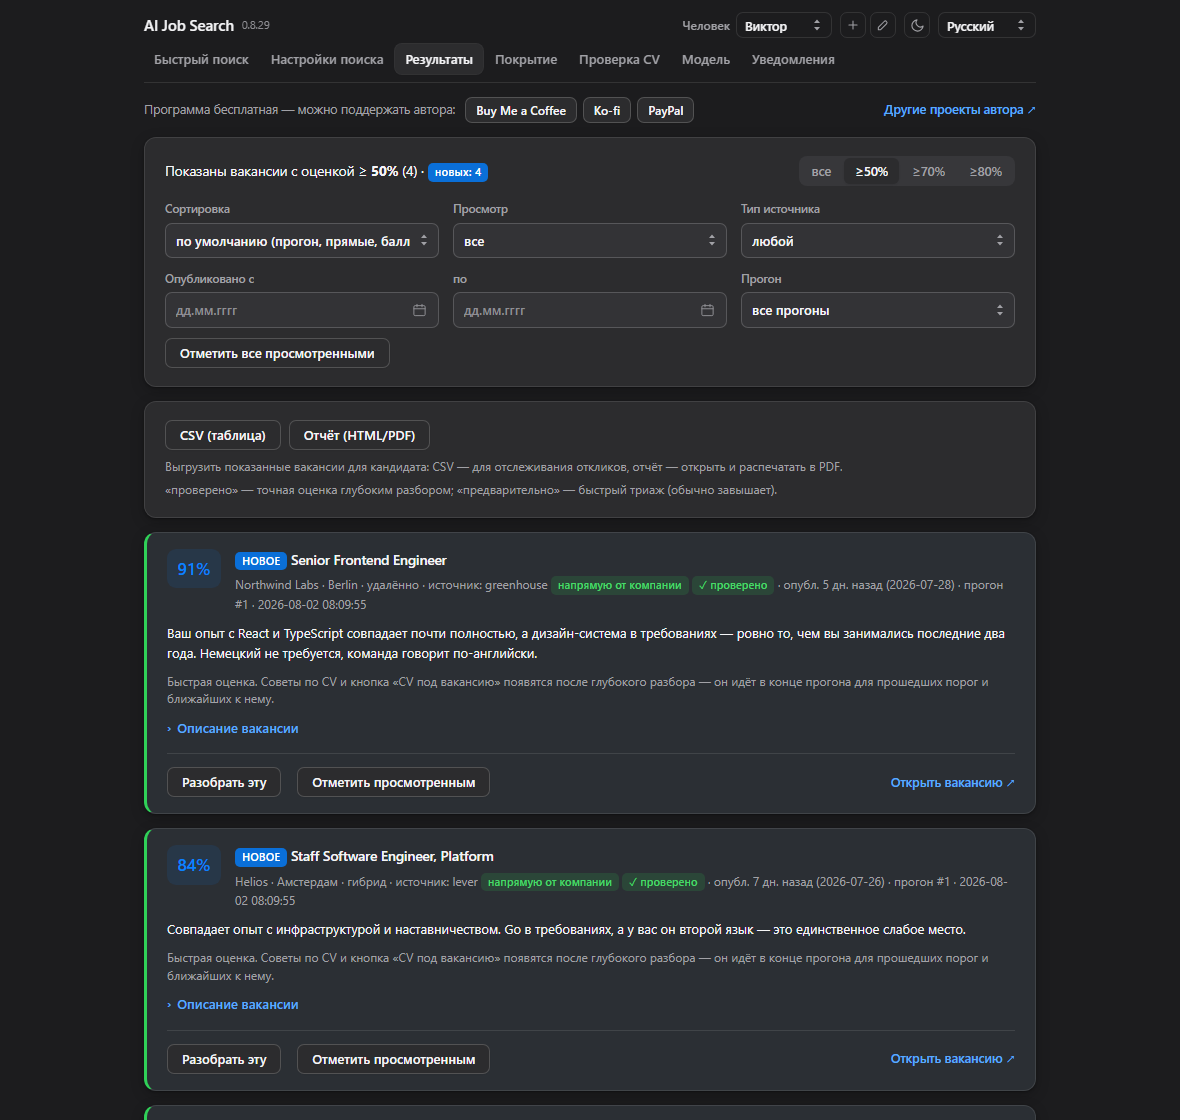
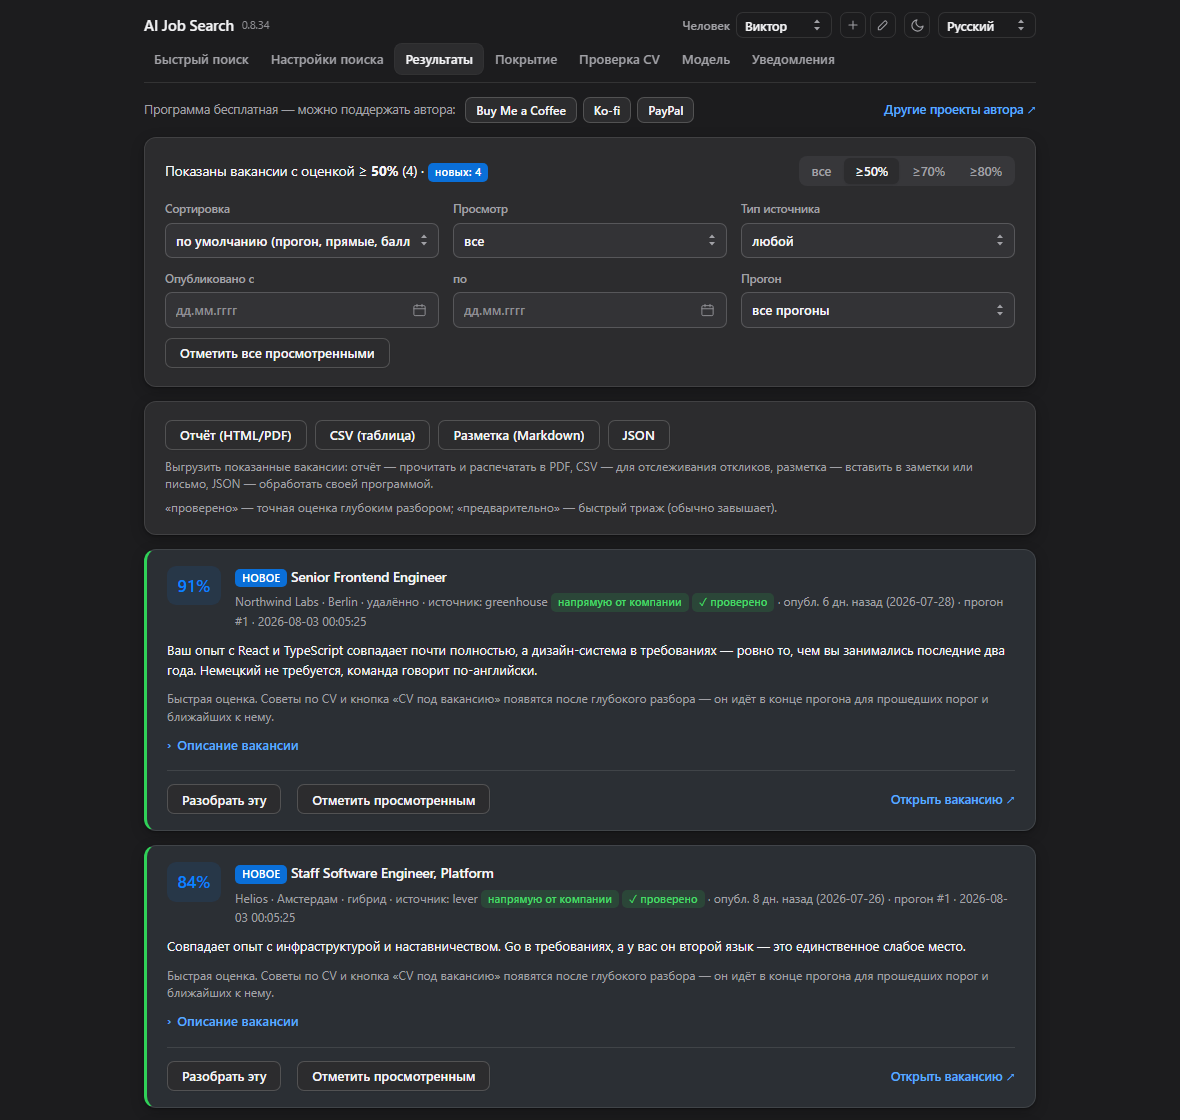
Снимки заново, и второй набор — тоже этим скриптом
Скрипт снимал только половину: русский набор в docs/img для README и страницы в
этом репозитории. Английская страница продукта на mrwd.github.io живёт в другом
репозитории, снимки у неё зовутся иначе, и обновлять их было нечем — там до сих
пор стояла 0.8.18 с четырьмя провайдерами из восьми и выгрузкой в два вида.

Теперь оба набора снимаются одной и той же командой:

    python tools/shots.py                     # docs/img, по-русски
    python tools/shots.py --site ПАПКА        # страница продукта, по-английски

Заодно нашлось, почему на английской странице висело русское «Выберите файл»:
кнопку выбора файла рисует сам браузер и язык берёт свой, а не страницы, а
снимали на русской Windows. Теперь язык задаётся явно.

Второй набор печатает ещё и размеры: в разметке той страницы высота проставлена
руками, и без правки она дёргается при загрузке.

Changed region(s): [[0.122, 0.375, 0.8847, 1.0]]

diff --git a/tools/shots.py b/tools/shots.py
@@ -1,23 +1,35 @@
 """Снимки для сайта и README.
 
-Скриншоты живут в docs/img и устаревают молча: интерфейс меняется, а на
-странице продукта остаётся прошлогодний. Отсюда скрипт — снять всё заново
-одной командой, а не собирать по одному руками и не забывать половину.
+Скриншоты устаревают молча: интерфейс меняется, а на странице продукта остаётся
+прошлогодний. Отсюда скрипт — снять всё заново одной командой, а не собирать по
+одному руками и не забывать половину.
+
+Наборов два, и забывался как раз второй. В docs/img лежат снимки по-русски — их
+показывают README и страница в этом репозитории. Страница продукта на
+mrwd.github.io английская, снимки у неё зовутся иначе, живут в другом
+репозитории и потому отставали сильнее всего: пока здесь обновляли, там
+оставалась версия годичной давности с четырьмя провайдерами из восьми.
+
+    python tools/shots.py                     # docs/img, по-русски
+    python tools/shots.py --site ПАПКА        # страница продукта, по-английски
+
+Второй набор печатает размеры: в его разметке ширина и высота проставлены
+руками, и если их не поправить, страница дёрнется при загрузке.
 
 Данные подставные и лежат во временной папке: настоящий профиль трогать нельзя,
 да и показывать чужие вакансии с чужим CV на странице продукта незачем. Каждая
 страница снимается дважды, в светлой теме и в тёмной.
 
-    python tools/shots.py
-
 Нужен Chrome или Edge — они и так есть на любой Windows. Пользуется их же
 безголовым режимом: ставить ради восьми картинок playwright с его полугигабайтом
 браузеров не стоит.
 """
+import argparse
 import json
 import os
 import shutil
 import socket
+import struct
 import subprocess
 import sys
 import tempfile
@@ -46,6 +58,19 @@ WIDTH = 1180
     # Провайдеров восемь, в 860 влезало шесть — третий ряд обрезался посередине.
     ("models", "/models", 1330, False),
 ]
+
+# Как звать файлы: (в светлой теме, в тёмной). У страницы продукта имена свои и
+# сложились раньше — переименовывать их значило бы править ещё и разметку.
+ИМЕНА = {
+    "repo": {"results": ("results", "results-dark"),
+             "advice": ("advice", "advice-dark"),
+             "quick-search": ("quick-search", "quick-search-dark"),
+             "models": ("models", "models-dark")},
+    "site": {"results": ("results-light", "results-dark"),
+             "advice": ("advice-light", "advice-dark"),
+             "quick-search": ("start-light", "start-dark"),
+             "models": ("model-light", "model-dark")},
+}
 
 БРАУЗЕРЫ = [
     r"C:\Program Files\Google\Chrome\Application\chrome.exe",
@@ -83,6 +108,86 @@ def свободный_порт() -> int:
         s.bind(("127.0.0.1", 0))
         return s.getsockname()[1]
 
+
+РАЗБОР_EN = json.dumps({
+    "salary_estimate": "€72,000 – 88,000 a year",
+    "company_insights": [
+        "Their own product company, not an agency: 140 people, office in Berlin.",
+        "3.9 out of 5 on Kununu — praised for flexible hours, criticised for slow hiring.",
+        "Remote from anywhere in the EU, with two office visits a year.",
+    ],
+    "sources": ["https://www.kununu.com/de/northwind",
+                "https://www.glassdoor.de/northwind"],
+    "cv_changes": [
+        "Move the design system into the first line of your experience — the ad puts it first too.",
+        "Put a number on the build work: «build time from 4 minutes to 1.5» beats the word «faster».",
+    ],
+    "linkedin_changes": [
+        "Add «Design Systems» to your headline — that is what recruiters there search for.",
+    ],
+    "cover_hint": "Mention moving the team to a monorepo: their ad lists it as a separate point.",
+}, ensure_ascii=False)
+
+ВАКАНСИИ_EN = [
+    dict(key="a1", title="Senior Frontend Engineer", company="Northwind Labs",
+         location="Berlin · remote", url="https://northwind.example/careers/fe-senior",
+         source="greenhouse", is_direct=1, is_agency=0, score=91, verified=1,
+         posted_at="2026-07-28",
+         description="React, TypeScript, design system, a team of six.",
+         reason="Your React and TypeScript experience lines up almost exactly, and the design "
+                "system in their requirements is precisely what you have spent the last two "
+                "years on. No German needed — the team works in English.",
+         advice=""),
+    dict(key="a2", title="Staff Software Engineer, Platform", company="Helios",
+         location="Amsterdam · hybrid", url="https://helios.example/jobs/staff-platform",
+         source="lever", is_direct=1, is_agency=0, score=84, verified=1,
+         posted_at="2026-07-26",
+         description="Kubernetes, Go, internal platforms for forty teams.",
+         reason="Your infrastructure and mentoring experience matches. Go is in the "
+                "requirements and it is your second language — that is the one weak spot.",
+         advice=""),
+    dict(key="a3", title="Full-stack Developer (SAP Integration)", company="Vandelay AG",
+         location="Munich · on site", url="https://vandelay.example/karriere/fullstack",
+         source="personio", is_direct=1, is_agency=0, score=76, verified=0,
+         posted_at="2026-07-24",
+         description="SAP PI/PO, Java, REST, logistics integration.",
+         reason="SAP PI/PO and Java are among your key skills. The worrying part is German "
+                "at B2 — your CV says A2.", advice=""),
+    dict(key="a4", title="Frontend Engineer", company="Kestrel Studio",
+         location="remote, EU", url="https://kestrel.example/careers/frontend",
+         source="workable", is_direct=1, is_agency=0, score=72, verified=0,
+         posted_at="2026-07-21",
+         description="Vue 3, Nuxt, small product teams.",
+         reason="A neighbouring stack: Vue instead of React. Not long to pick up, but the ad "
+                "asks for Nuxt experience specifically, and you have none.", advice=""),
+]
+
+CV_EN = """Viktor Lavrov — Senior Frontend Engineer
+
+Eight years in frontend, the last two on design systems and builds.
+React, TypeScript, Vite, Storybook. Led a team of twelve through a move
+to a monorepo, build time from four minutes down to one and a half.
+
+Experience
+2022–2026  Frontend Lead, Orbita — a design system of 60 components,
+           used by four product teams.
+2019–2022  Senior Frontend Engineer, Meridian — the account area,
+           300k users a month.
+2018–2019  Frontend Developer, Sable — markup and integrations.
+
+Languages: Russian (native), English (C1), German (A2).
+"""
+
+ПРОФИЛЬ_EN = dict(
+    имя="Viktor Lavrov",
+    summary="Senior Frontend Engineer, design systems and builds",
+    roles="Frontend Engineer, Frontend Lead",
+    skills="React, TypeScript, Vite, Storybook, monorepos",
+    salary="from €75,000 a year",
+    languages="English C1, German A2",
+    locations="Germany, the Netherlands, remote in the EU",
+    файл_cv="Lavrov CV.pdf",
+)
 
 РАЗБОР = json.dumps({
     "salary_estimate": "72 000 – 88 000 € в год",
@@ -152,39 +257,56 @@ React, TypeScript, Vite, Storybook. Вёл переход команды из д
 Языки: русский (родной), английский (C1), немецкий (A2).
 """
 
+ПРОФИЛЬ_RU = dict(
+    имя="Виктор",
+    summary="Senior Frontend Engineer, дизайн-системы и сборка",
+    roles="Frontend Engineer, Frontend Lead",
+    skills="React, TypeScript, Vite, Storybook, монорепозитории",
+    salary="от 75 000 € в год",
+    languages="английский C1, немецкий A2",
+    locations="Германия, Нидерланды, удалённо в ЕС",
+    файл_cv="Лаврентьев CV.pdf",
+)
 
-def заполнить(data: Path) -> None:
+ПОКАЗАННОЕ = {
+    "ru": (ПРОФИЛЬ_RU, CV, ВАКАНСИИ, РАЗБОР),
+    "en": (ПРОФИЛЬ_EN, CV_EN, ВАКАНСИИ_EN, РАЗБОР_EN),
+}
+
+
+def заполнить(data: Path, язык: str) -> None:
     """Кладёт во временную папку то, что должно быть видно на снимках."""
     os.environ["AIJS_DATA_DIR"] = str(data)
     from jobsearch import appstate, config, db, profiles
+
+    профиль, cv, вакансии, _ = ПОКАЗАННОЕ[язык]
 
     # Заполняем профиль по умолчанию, а не заводим новый: сервер приходит без
     # cookie и показывает именно его. Свежесозданный профиль на снимке был пуст,
     # а рядом в переключателе стоял чужой — «Ничего с такой оценкой нет».
     profiles.ensure_migrated()
     slug = profiles.default_slug()
-    profiles.rename(slug, "Виктор")
+    profiles.rename(slug, профиль["имя"])
     profiles.set_active(slug)
     db.init()
 
     cfg = config.load()
-    cfg["profile"].update(summary="Senior Frontend Engineer, дизайн-системы и сборка",
-                          roles="Frontend Engineer, Frontend Lead",
-                          skills="React, TypeScript, Vite, Storybook, монорепозитории",
-                          seniority="senior", salary="от 75 000 € в год",
-                          work_format="remote", languages="английский C1, немецкий A2")
-    cfg["search"].update(locations="Германия, Нидерланды, удалённо в ЕС", threshold=70)
-    cfg["ui"]["lang"] = "ru"
+    cfg["profile"].update(summary=профиль["summary"], roles=профиль["roles"],
+                          skills=профиль["skills"], seniority="senior",
+                          salary=профиль["salary"], work_format="remote",
+                          languages=профиль["languages"])
+    cfg["search"].update(locations=профиль["locations"], threshold=70)
+    cfg["ui"]["lang"] = язык
     config.save(cfg)
-    config.cv_text_path().write_text(CV, encoding="utf-8")
+    config.cv_text_path().write_text(cv, encoding="utf-8")
     config.cv_meta_path().write_text(
-        json.dumps({"filename": "Лаврентьев CV.pdf", "chars": len(CV)}, ensure_ascii=False),
+        json.dumps({"filename": профиль["файл_cv"], "chars": len(cv)}, ensure_ascii=False),
         encoding="utf-8")
 
     run = db.start_run()
-    for job in ВАКАНСИИ:
+    for job in вакансии:
         db.save_job(job, run)
-    db.finish_run(run, found=214, fresh=37, matched=len(ВАКАНСИИ), status="ok", log="")
+    db.finish_run(run, found=214, fresh=37, matched=len(вакансии), status="ok", log="")
     appstate.mark_setup_done(cfg["llm"])
     return slug
 
@@ -205,10 +327,15 @@ def поднять(data: Path, port: int):
     raise SystemExit("приложение не поднялось")
 
 
-def снять(chrome: str, url: str, out: Path, height: int, профиль: Path) -> None:
+def снять(chrome: str, url: str, out: Path, height: int, профиль: Path,
+          язык: str = "ru") -> None:
     subprocess.run([
         chrome, "--headless=new", "--disable-gpu", "--hide-scrollbars",
         f"--user-data-dir={профиль}",
+        # Кнопку выбора файла рисует сам браузер, и язык он берёт свой, а не
+        # страницы. Оттого на английской странице продукта висело русское
+        # «Выберите файл» — снимали-то на русской Windows.
+        f"--lang={ {'ru': 'ru', 'en': 'en-US'}[язык] }",
         f"--window-size={WIDTH},{height}",
         # Страница дорисовывает себя скриптами; без паузы снимок ловит её
         # наполовину собранной — с непроявленными карточками и пустой шапкой.
@@ -217,7 +344,7 @@ def снять(chrome: str, url: str, out: Path, height: int, профиль: Pa
     ], check=True, capture_output=True)
 
 
-def разбор(есть: bool) -> None:
+def разбор(есть: bool, язык: str) -> None:
     """Включает и убирает глубокий разбор у верхней вакансии.
 
     Сервер открывает базу заново на каждый запрос, так что менять её отсюда
@@ -226,7 +353,7 @@ def разбор(есть: bool) -> None:
     from jobsearch import db
     with db.conn() as c:
         c.execute("UPDATE jobs SET advice=? WHERE key='a1'",
-                  (РАЗБОР if есть else "",))
+                  (ПОКАЗАННОЕ[язык][3] if есть else "",))
 
 
 def тема(какая: str) -> None:
@@ -237,12 +364,28 @@ def тема(какая: str) -> None:
     appstate.set_theme(какая)
 
 
+def размер(png: Path) -> str:
+    ширина, высота = struct.unpack(">II", png.read_bytes()[16:24])
+    return f"{ширина}x{высота}"
+
+
 def main() -> None:
+    разбор_доводов = argparse.ArgumentParser(description=__doc__)
+    разбор_доводов.add_argument("--site", metavar="ПАПКА",
+                                help="снять набор для страницы продукта, по-английски")
+    доводы = разбор_доводов.parse_args()
+
+    набор = "site" if доводы.site else "repo"
+    язык = "en" if доводы.site else "ru"
+    куда = Path(доводы.site).resolve() if доводы.site else OUT
+    if not куда.is_dir():
+        raise SystemExit(f"папки {куда} нет — снимать некуда")
+
     chrome = браузер()
     data = Path(tempfile.mkdtemp(prefix="aijs-shots-"))
     профиль_браузера = Path(tempfile.mkdtemp(prefix="aijs-chrome-"))
-    print("данные:", data)
-    заполнить(data)
+    print(f"набор: {набор} ({язык}) → {куда}")
+    заполнить(data, язык)
     # Без этого файла программа зовёт себя «dev», и это видно в шапке на каждом
     # снимке. На странице продукта такая подпись выглядит недоделкой.
     версия = ROOT / "VERSION.txt"
@@ -251,15 +394,14 @@ def main() -> None:
     port = свободный_порт()
     proc = поднять(data, port)
     try:
-        OUT.mkdir(parents=True, exist_ok=True)
-        for какая, суффикс in (("light", ""), ("dark", "-dark")):
+        for какая, место in (("light", 0), ("dark", 1)):
             тема(какая)
             for имя, путь, height, с_разбором in СТРАНИЦЫ:
-                разбор(с_разбором)
-                url = f"http://127.0.0.1:{port}{путь}"
-                out = OUT / f"{имя}{суффикс}.png"
-                снять(chrome, url, out, height, профиль_браузера)
-                print(f"  {out.name}: {out.stat().st_size // 1024} КБ")
+                разбор(с_разбором, язык)
+                out = куда / f"{ИМЕНА[набор][имя][место]}.png"
+                снять(chrome, f"http://127.0.0.1:{port}{путь}", out, height,
+                      профиль_браузера, язык)
+                print(f"  {out.name}: {out.stat().st_size // 1024} КБ, {размер(out)}")
     finally:
         proc.terminate()
         версия.write_text(было, encoding="utf-8") if было else версия.unlink(missing_ok=True)
